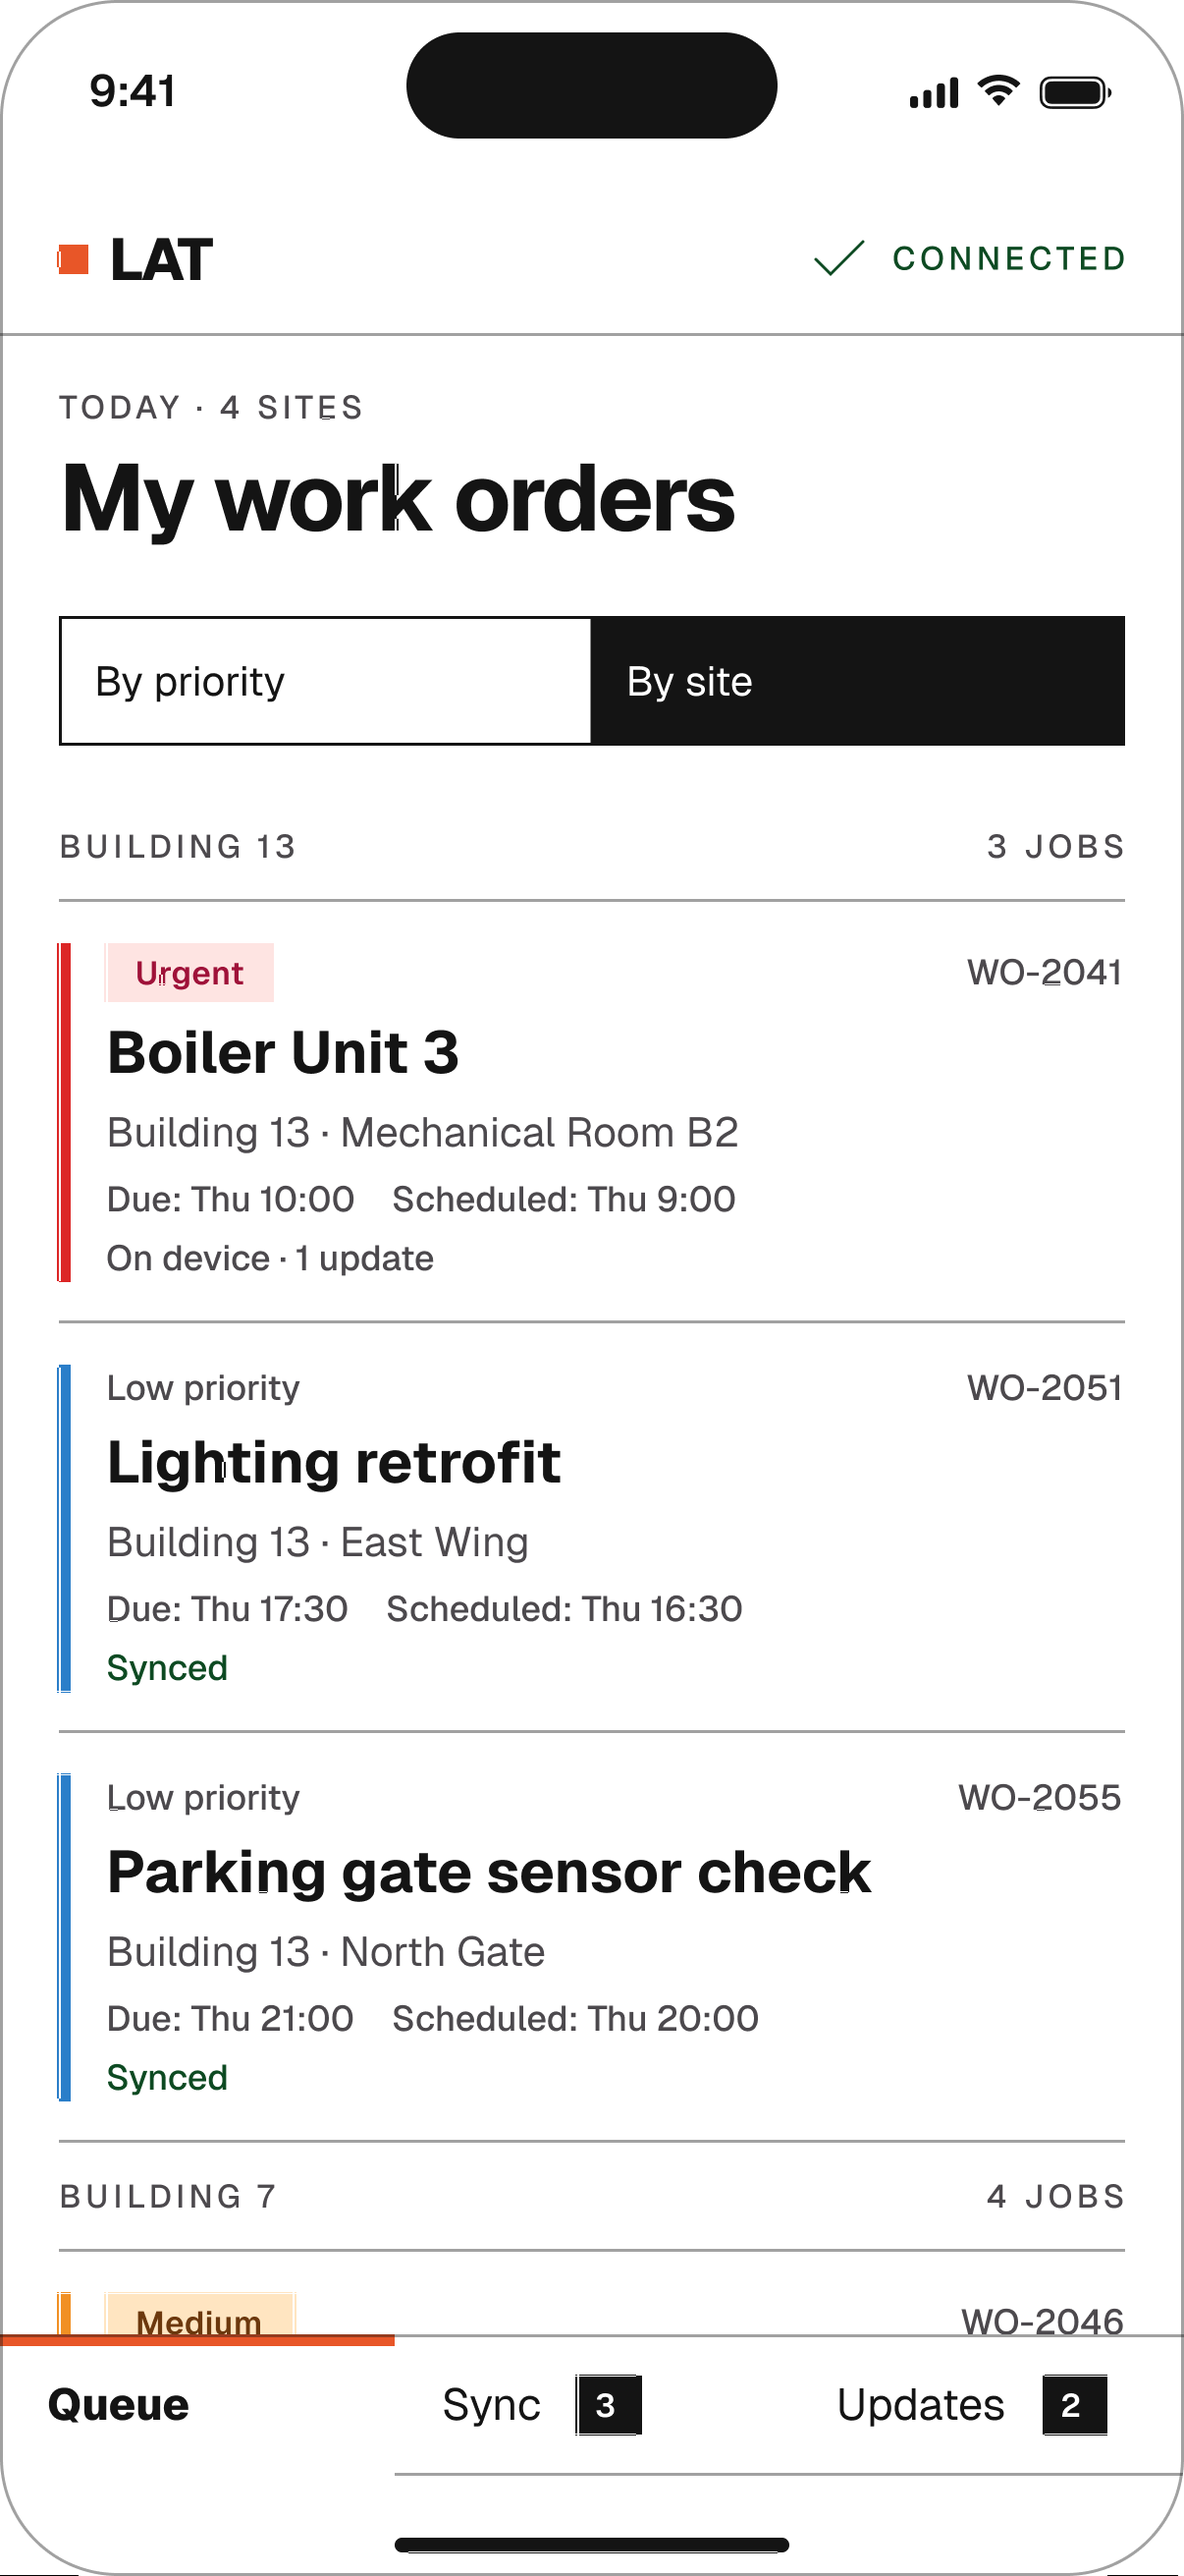
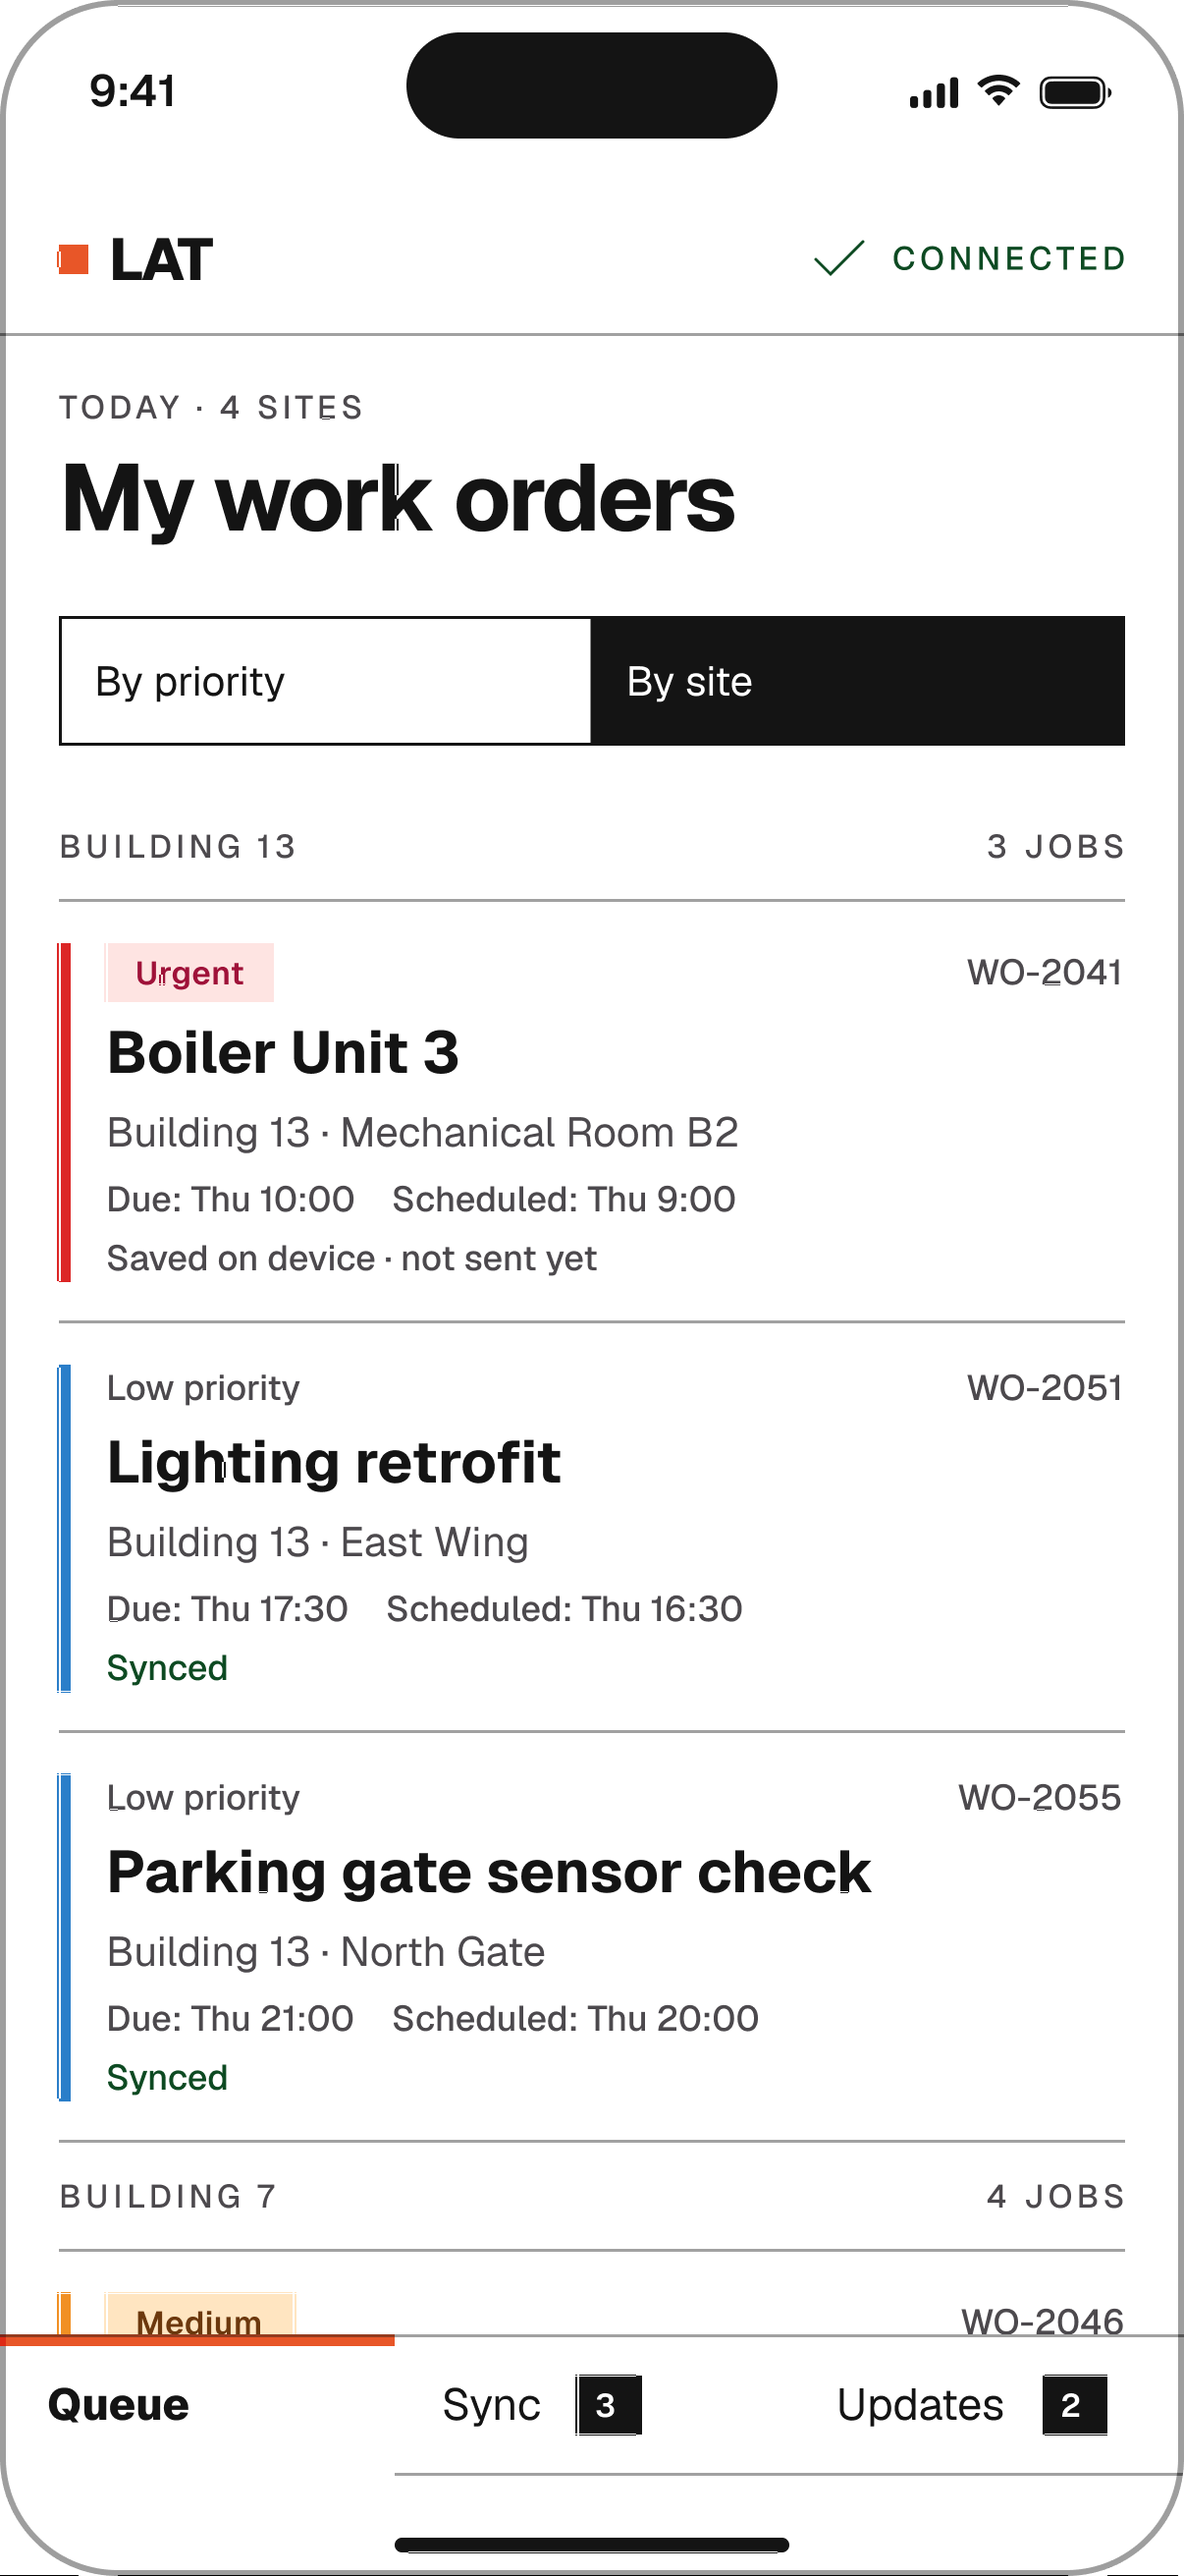
Address review: zoom close-ups, failed/retry state, corrected card wording
- Card wording updated to "Saved on device · not sent yet" across all
  three queue screens and the close-up crops, matching the shift banner.
- V3 screen now includes the failed Roof drain job with Retry sync button,
  giving the "Banner isolates failures" caption real evidence on the page.
- "Work order card, up close" row rebuilt as tight 2x zoom crops focused on
  the actual delta content (due/sync line, unread badge, failed/retry
  state) instead of shrunk full-card screenshots; added a 4th close-up for
  the failure state with a pulsing dashed highlight (new csHighlightPulse
  keyframe in globals.css).
- Closing line rewritten to state what the design does, since no sourced
  metric ties directly to this subsection.

diff --git a/app/work/[slug]/page.tsx b/app/work/[slug]/page.tsx
@@ -778,37 +778,83 @@ const caseStudies = {
 
               <p style={{ fontSize: '14px', color: '#78716C' }}>From filtered list to one synced, shift-aware queue.</p>
 
-              <div style={{ display: 'flex', alignItems: 'flex-start', justifyContent: 'center', gap: '40px', marginTop: '56px', flexWrap: 'nowrap' }}>
-                <div style={{ flex: '0 1 200px', minWidth: '150px' }}>
+              <div style={{ display: 'flex', alignItems: 'flex-start', justifyContent: 'flex-start', gap: '24px', marginTop: '56px', flexWrap: 'nowrap' }}>
+                <div style={{ flex: '0 1 230px', minWidth: '170px' }}>
                   <img loading="lazy" decoding="async" width={1206} height={2622} src="/images/lat/LAT%20Technician%20Work%20Orders%20V1.png" alt="Technician work order queue, version 1 — a long list with filter tabs and priority tags" style={{ width: '100%', height: 'auto', borderRadius: '0px', display: 'block' }} />
                   <div style={{ fontSize: '12px', fontWeight: 700, letterSpacing: '0.04em', textTransform: 'uppercase', color: '#A8A29E', marginTop: '16px' }}>Starting point</div>
                   <div style={{ fontSize: '13px', color: '#57534E', marginTop: '4px' }}>Filtered list, tabs, priority tags</div>
                 </div>
 
-                <div style={{ flex: '0 0 130px', textAlign: 'center', marginTop: '98px' }}>
+                <div style={{ flex: '0 0 100px', textAlign: 'center', marginTop: '112px' }}>
                   <div style={{ color: '#FF7C5F', fontSize: '24px' }}>→</div>
                   <div style={{ fontSize: '13px', color: '#78716C', marginTop: '10px', lineHeight: 1.5 }}>fewer controls, added sync state</div>
                 </div>
 
-                <div style={{ flex: '0 1 200px', minWidth: '150px' }}>
+                <div style={{ flex: '0 1 230px', minWidth: '170px' }}>
                   <img loading="lazy" decoding="async" width={1206} height={2622} src="/images/lat/LAT%20Technician%20Work%20Orders%20V2.png" alt="Technician work order queue, version 2 — one sort control, due times, and sync state on every card" style={{ width: '100%', height: 'auto', borderRadius: '0px', display: 'block' }} />
                   <div style={{ fontSize: '12px', fontWeight: 700, letterSpacing: '0.04em', textTransform: 'uppercase', color: '#FF7C5F', marginTop: '16px' }}>One queue, one switch</div>
                   <div style={{ fontSize: '13px', color: '#57534E', marginTop: '4px' }}>Due time + sync state on every card</div>
+                  <div style={{ fontSize: '13px', color: '#78716C', marginTop: '6px' }}>Technicians plan from the queue and can see their work is safe.</div>
                 </div>
 
-                <div style={{ flex: '0 0 130px', textAlign: 'center', marginTop: '98px' }}>
+                <div style={{ flex: '0 0 100px', textAlign: 'center', marginTop: '112px' }}>
                   <div style={{ color: '#FF7C5F', fontSize: '24px' }}>→</div>
                   <div style={{ fontSize: '13px', color: '#78716C', marginTop: '10px', lineHeight: 1.5 }}>added shift banner, isolated failures</div>
                 </div>
 
-                <div style={{ flex: '0 1 200px', minWidth: '150px' }}>
-                  <img loading="lazy" decoding="async" width={1206} height={2622} src="/images/lat/LAT%20Technician%20Work%20Orders%20V3.png" alt="Technician work order queue, version 3 — a summary banner showing unsent changes across the whole shift" style={{ width: '100%', height: 'auto', borderRadius: '0px', display: 'block' }} />
+                <div style={{ flex: '0 1 230px', minWidth: '170px' }}>
+                  <img loading="lazy" decoding="async" width={1206} height={3159} src="/images/lat/LAT%20Technician%20Work%20Orders%20V3.png" alt="Technician work order queue, version 3 — a summary banner showing unsent changes, including the failed Roof drain job with its Retry button" style={{ width: '100%', height: 'auto', borderRadius: '0px', display: 'block' }} />
                   <div style={{ fontSize: '12px', fontWeight: 700, letterSpacing: '0.04em', textTransform: 'uppercase', color: '#FF7C5F', marginTop: '16px' }}>One shift, one status</div>
-                  <div style={{ fontSize: '13px', color: '#57534E', marginTop: '4px' }}>Banner isolates failures, Retry waiting</div>
+                  <div style={{ fontSize: '13px', color: '#57534E', marginTop: '4px' }}>Banner isolates failures</div>
+                  <div style={{ fontSize: '13px', color: '#78716C', marginTop: '6px' }}>One status for the shift, so a stuck update can't hide.</div>
                 </div>
               </div>
 
-              <p style={{ fontSize: '14px', color: '#78716C', marginTop: '40px', textAlign: 'center' }}>Removing "did that go through?" from the technician's day — part of why offline field reporting went from 20 minutes to 8.</p>
+              <div style={{ marginTop: '64px' }}>
+                <div style={{ fontSize: '11px', fontWeight: 700, letterSpacing: '0.06em', textTransform: 'uppercase', color: '#A8A29E', marginBottom: '20px' }}>Work order card, up close</div>
+
+                <div style={{ display: 'flex', alignItems: 'flex-start', justifyContent: 'flex-start', gap: '24px', flexWrap: 'wrap' }}>
+                  <div style={{ flex: '0 1 440px', minWidth: '320px' }}>
+                    <div style={{ backgroundColor: '#FFFFFF', border: '1px solid #E7E5E4', boxShadow: '0 2px 10px rgba(0,0,0,0.06)', padding: '20px' }}>
+                      <img loading="lazy" decoding="async" width={1086} height={306} src="/images/lat/Work%20order-2.png" alt="Work order card, base state — priority badge, title, and location" style={{ width: '100%', height: 'auto', display: 'block' }} />
+                    </div>
+                    <div style={{ fontSize: '11px', fontWeight: 700, letterSpacing: '0.04em', textTransform: 'uppercase', color: '#A8A29E', marginTop: '14px' }}>Base</div>
+                    <div style={{ fontSize: '13px', color: '#57534E', marginTop: '4px' }}>Priority, job, and location — enough to recognize the work.</div>
+                  </div>
+
+                  <div style={{ flex: '0 1 440px', minWidth: '320px' }}>
+                    <div style={{ backgroundColor: '#FFFFFF', border: '1px solid #E7E5E4', boxShadow: '0 2px 10px rgba(0,0,0,0.06)', padding: '20px' }}>
+                      <img loading="lazy" decoding="async" width={1086} height={172} src="/images/lat/Work%20order-1%20Zoom.png" alt="Work order card, zoomed on the due and scheduled times, and sync state" style={{ width: '100%', height: 'auto', display: 'block' }} />
+                    </div>
+                    <div style={{ fontSize: '11px', fontWeight: 700, letterSpacing: '0.04em', textTransform: 'uppercase', color: '#FF7C5F', marginTop: '14px' }}>+ Time &amp; sync</div>
+                    <div style={{ fontSize: '13px', color: '#57534E', marginTop: '4px' }}>Due and Scheduled times, plus sync state — plan and trust the card without opening it.</div>
+                  </div>
+
+                  <div style={{ flex: '0 1 440px', minWidth: '320px' }}>
+                    <div style={{ backgroundColor: '#FFFFFF', border: '1px solid #E7E5E4', boxShadow: '0 2px 10px rgba(0,0,0,0.06)', padding: '20px' }}>
+                      <div style={{ position: 'relative' }}>
+                        <img loading="lazy" decoding="async" width={1086} height={222} src="/images/lat/Work%20order%20Zoom.png" alt="Work order card, zoomed on the sync state and the new unread update badge" style={{ width: '100%', height: 'auto', display: 'block' }} />
+                        <div className="cs-highlight-box" style={{ top: '46px', height: '33px' }} />
+                      </div>
+                    </div>
+                    <div style={{ fontSize: '11px', fontWeight: 700, letterSpacing: '0.04em', textTransform: 'uppercase', color: '#FF7C5F', marginTop: '14px' }}>+ Unread flag</div>
+                    <div style={{ fontSize: '13px', color: '#57534E', marginTop: '4px' }}>"1 unread update" flags a change on this job the technician hasn't seen yet.</div>
+                  </div>
+
+                  <div style={{ flex: '0 1 440px', minWidth: '320px' }}>
+                    <div style={{ backgroundColor: '#FFFFFF', border: '1px solid #E7E5E4', boxShadow: '0 2px 10px rgba(0,0,0,0.06)', padding: '20px' }}>
+                      <div style={{ position: 'relative' }}>
+                        <img loading="lazy" decoding="async" width={1206} height={711} src="/images/lat/Work%20order%20Failed%20Zoom.png" alt="Work order card showing a failed sync and the Retry sync button, for the Roof drain job reassigned by Maya" style={{ width: '100%', height: 'auto', display: 'block' }} />
+                        <div className="cs-highlight-box" style={{ top: '131px', height: '103px' }} />
+                      </div>
+                    </div>
+                    <div style={{ fontSize: '11px', fontWeight: 700, letterSpacing: '0.04em', textTransform: 'uppercase', color: '#FF7C5F', marginTop: '14px' }}>+ Failed and retry</div>
+                    <div style={{ fontSize: '13px', color: '#57534E', marginTop: '4px' }}>When sync fails, the card says so in place and offers Retry — the update stays safe on the device either way.</div>
+                  </div>
+                </div>
+              </div>
+
+              <p style={{ fontSize: '14px', color: '#78716C', marginTop: '40px', textAlign: 'center' }}>Every job shows whether its update arrived, and anything stuck is one tap away.</p>
             </div>
 
             <div style={{ marginBottom: '8px' }}>

diff --git a/app/globals.css b/app/globals.css
@@ -219,6 +219,22 @@ img, video {
   50% { transform: translateY(5px); opacity: 1; }
 }
 
+/* Case study diagrams: dashed outline calling out what changed between two screens */
+@keyframes csHighlightPulse {
+  0%, 100% { opacity: 0.4; }
+  50% { opacity: 1; }
+}
+
+.cs-highlight-box {
+  position: absolute;
+  left: 6px;
+  right: 6px;
+  border: 2px dashed #A8A29E;
+  border-radius: 4px;
+  pointer-events: none;
+  animation: csHighlightPulse 1.8s ease-in-out infinite;
+}
+
 /* Splash screen: the brand-green field breathes once instead of sitting flat */
 @keyframes splashPulse {
   0% { transform: scale(0.98); }
